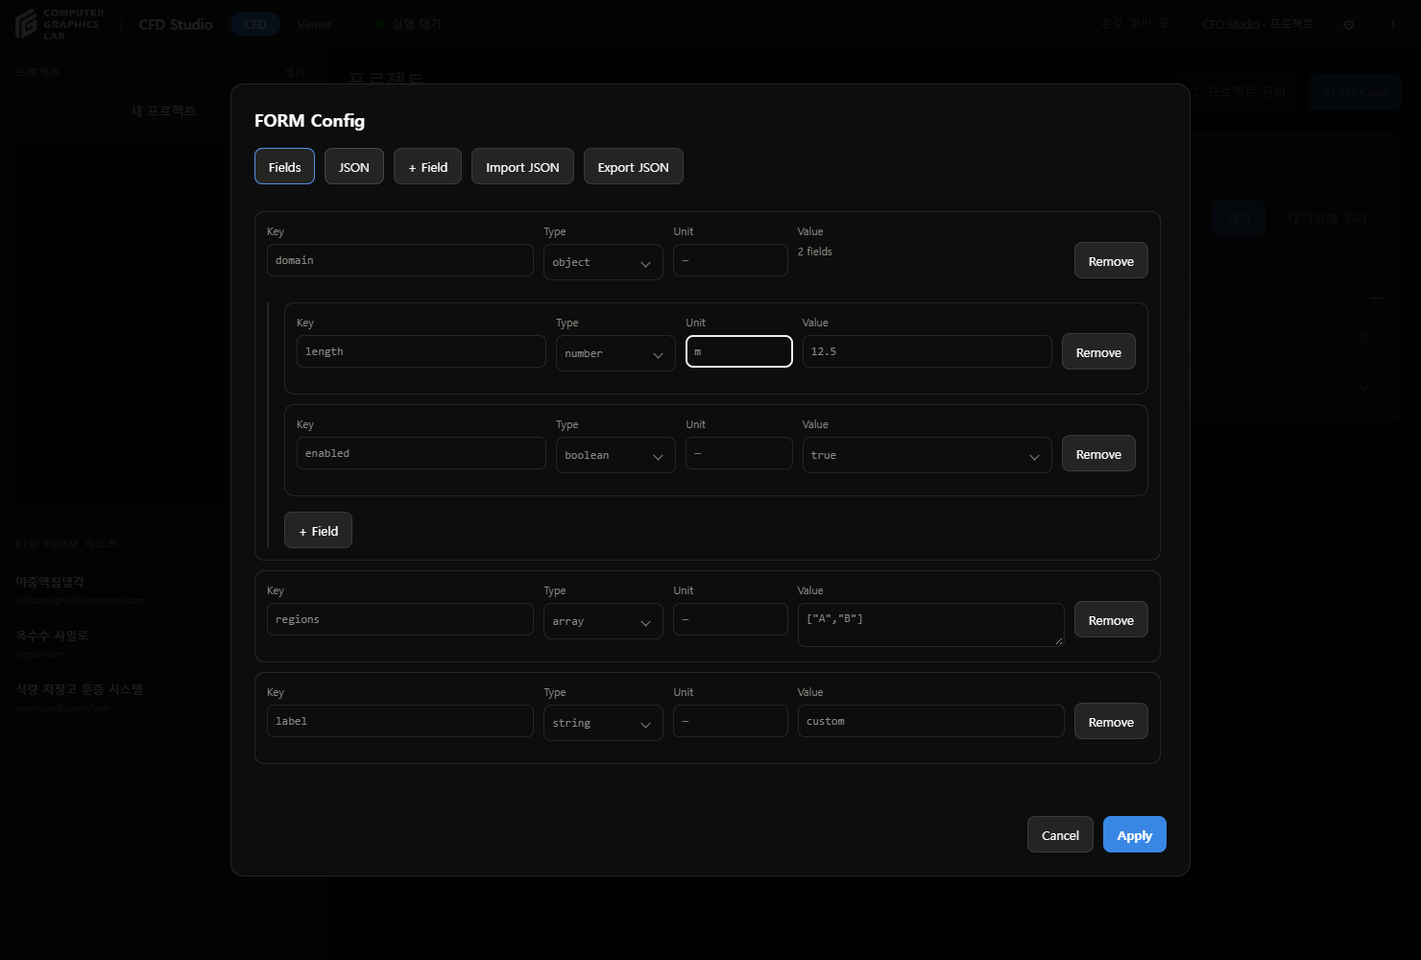
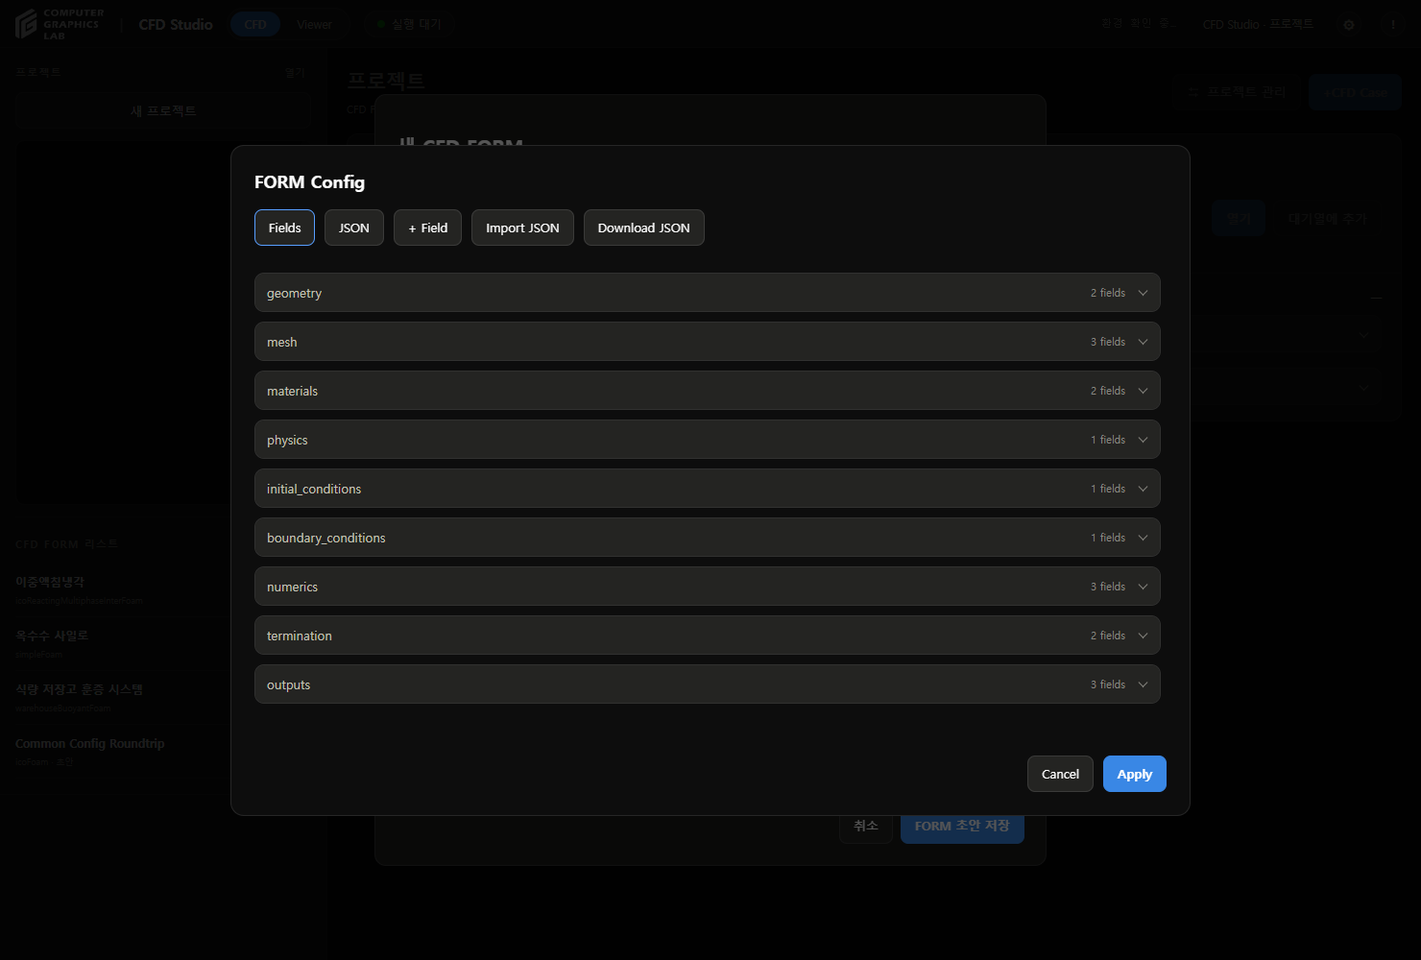
Provide common CFD Config structure and editable JSON template

diff --git a/cfd_studio/internal/form_config_editor.js b/cfd_studio/internal/form_config_editor.js
@@ -32,13 +32,13 @@
   }
   function newField(fields){let n=1;while(fields.some(f=>f.key==='field_'+n))n++;return {key:'field_'+n,type:'number',unit:'',value:0};}
   function open({config={},schema=null,onSave,title='Config'}){
-    let draft=schema?clone(schema):fromConfig(config),mode='fields';toConfig(draft);
+    let draft=schema?clone(schema):fromConfig(config),mode='fields';toConfig(draft);const expanded=new WeakSet();
     const el=(tag,text,cls)=>{const x=document.createElement(tag);if(text!=null)x.textContent=text;if(cls)x.className=cls;return x;};
     const button=(text,fn)=>{const x=el('button',text,'btn');x.type='button';x.onclick=fn;return x;};
     if(!document.getElementById('formConfigStyle')){const style=el('style');style.id='formConfigStyle';style.textContent=`
       .fc-dialog{width:min(1000px,94vw);max-width:1000px;max-height:90vh;padding:24px;border:1px solid var(--line);border-radius:14px;background:var(--card,var(--page));color:var(--text);box-sizing:border-box}.fc-dialog::backdrop{background:#000a}
       .fc-header,.fc-actions,.fc-toolbar{display:flex;align-items:center;justify-content:space-between;gap:10px}.fc-header h2{font-size:18px;margin:0}.fc-toolbar{justify-content:flex-start;flex-wrap:wrap;margin:18px 0}.fc-body{max-height:60vh;overflow:auto;padding-right:6px}.fc-empty{padding:40px;text-align:center;color:var(--muted);border:1px dashed var(--line);border-radius:10px}.fc-field{border:1px solid var(--line);border-radius:10px;padding:12px;margin:10px 0;background:var(--page)}
-      .fc-row{display:grid;grid-template-columns:minmax(120px,1.4fr) 125px minmax(70px,.6fr) minmax(120px,1.4fr) auto;gap:10px;align-items:start}.fc-field label{display:flex;flex-direction:column;gap:6px;font-size:11px;color:var(--muted)}.fc-field input,.fc-field select,.fc-field textarea,.fc-json{box-sizing:border-box;width:100%;background:var(--card,var(--page));color:var(--text);border:1px solid var(--line);border-radius:7px;padding:8px;font:12px Consolas,monospace;min-height:34px}.fc-field .btn{margin-top:19px}.fc-children{padding-left:16px;border-left:2px solid var(--line);margin-top:12px}.fc-children>.btn{margin-top:6px}.fc-json{min-height:360px;resize:vertical}.fc-error{color:var(--red,#ef8989);font-size:12px;min-height:18px;white-space:pre-wrap}.fc-actions{justify-content:flex-end;margin-top:14px}.fc-toolbar [aria-pressed=true]{border-color:var(--accent,#579eff)}
+      .fc-row{display:grid;grid-template-columns:minmax(120px,1.4fr) 125px minmax(70px,.6fr) minmax(120px,1.4fr) auto;gap:10px;align-items:start}.fc-field label{display:flex;flex-direction:column;gap:6px;font-size:11px;color:var(--muted)}.fc-field input,.fc-field select,.fc-field textarea,.fc-json{box-sizing:border-box;width:100%;background:var(--card,var(--page));color:var(--text);border:1px solid var(--line);border-radius:7px;padding:8px;font:12px Consolas,monospace;min-height:34px}.fc-field .btn{margin-top:19px}.fc-children{padding-left:16px;border-left:2px solid var(--line);margin-top:12px}.fc-children>.btn{margin-top:6px}.fc-group{border:1px solid var(--line);border-radius:10px;margin:10px 0;background:var(--page)}.fc-group>summary{display:flex;align-items:center;gap:12px;cursor:pointer;padding:14px;list-style:none;font-size:13px}.fc-group>summary::-webkit-details-marker{display:none}.fc-group>summary small{margin-left:auto;color:var(--muted);font-size:11px}.fc-group>summary::after{content:'⌄';font-size:18px;color:var(--muted);transition:transform .15s}.fc-group[open]>summary::after{transform:rotate(180deg)}.fc-group>.fc-field{border:0;margin:0;border-top:1px solid var(--line);border-radius:0 0 10px 10px}.fc-json{min-height:360px;resize:vertical}.fc-error{color:var(--red,#ef8989);font-size:12px;min-height:18px;white-space:pre-wrap}.fc-actions{justify-content:flex-end;margin-top:14px}.fc-toolbar [aria-pressed=true]{border-color:var(--accent,#579eff)}
       @media(max-width:700px){.fc-row{grid-template-columns:1fr 1fr}.fc-row>.btn{grid-column:2}.fc-children{padding-left:6px}}
     `;document.head.append(style);}
     const dialog=el('dialog',null,'fc-dialog'),header=el('div',null,'fc-header');header.append(el('h2',title));dialog.append(header);
@@ -49,12 +49,17 @@
     const add=button('+ Field',()=>guarded(()=>{commitJSON();draft.fields.push(newField(draft.fields));mode='fields';render();}));
     const upload=el('input');upload.type='file';upload.accept='.json,application/json';upload.hidden=true;
     upload.onchange=async()=>{const file=upload.files[0];if(!file)return;try{if(file.size>1000000)throw Error('JSON file must be under 1 MB');const next=fromConfig(JSON.parse(await file.text()),draft);draft=next;mode='fields';error.textContent='';render();}catch(e){error.textContent=e.message;}upload.value='';};
-    toolbar.append(fieldButton,jsonButton,add,button('Import JSON',()=>upload.click()),button('Export JSON',()=>guarded(()=>{commitJSON();const a=el('a');a.href=URL.createObjectURL(new Blob([JSON.stringify(toConfig(draft),null,2)],{type:'application/json'}));a.download='config.json';a.click();setTimeout(()=>URL.revokeObjectURL(a.href),1000);})),upload);dialog.append(toolbar,body,error,actions);
+    toolbar.append(fieldButton,jsonButton,add,button('Import JSON',()=>upload.click()),button('Download JSON',()=>guarded(()=>{commitJSON();const a=el('a');a.href=URL.createObjectURL(new Blob([JSON.stringify(toConfig(draft),null,2)],{type:'application/json'}));a.download='cfd-config.json';a.click();setTimeout(()=>URL.revokeObjectURL(a.href),1000);})),upload);dialog.append(toolbar,body,error,actions);
     function renderFields(fields,host,path=''){
       for(const [index,field] of fields.entries()){
-        const box=el('div',null,'fc-field'),row=el('div',null,'fc-row'),label=path+field.key;host.append(box);box.append(row);
+        const box=el('div',null,'fc-field'),row=el('div',null,'fc-row'),label=path+field.key;
+        let heading;
+        if(!path&&field.type==='object'){
+          const section=el('details',null,'fc-group'),summary=el('summary');heading=el('span',field.key);summary.append(heading,el('small',field.fields.length+' fields'));section.append(summary,box);section.open=expanded.has(field);section.ontoggle=()=>{if(section.open)expanded.add(field);else expanded.delete(field);};host.append(section);
+        }else host.append(box);
+        box.append(row);
         const input=(caption,node)=>{const l=el('label',caption);node.setAttribute('aria-label',label+' '+caption);l.append(node);row.append(l);return node;};
-        const key=input('Key',el('input'));key.value=field.key;key.maxLength=80;key.oninput=()=>field.key=key.value;
+        const key=input('Key',el('input'));key.value=field.key;key.maxLength=80;key.oninput=()=>{field.key=key.value;if(heading)heading.textContent=key.value;};
         const type=input('Type',el('select'));for(const t of types)type.append(new Option(t,t));type.value=field.type;
         const unit=input('Unit',el('input'));unit.value=field.unit||'';unit.maxLength=64;unit.placeholder='—';unit.oninput=()=>field.unit=unit.value;
         type.onchange=()=>{field.type=type.value;delete field.fields;delete field.value;if(field.type==='object')field.fields=[];else field.value={string:'',number:0,integer:0,boolean:false,array:[],null:null}[field.type];render();};

diff --git a/cfd_studio/internal/execution_workspace.js b/cfd_studio/internal/execution_workspace.js
@@ -154,7 +154,7 @@
   }
   async function formEditor(id=null){
     try{
-      const [reply,catalogReply]=await Promise.all([api('/forms'),api('/solvers')]);
+      const [reply,catalogReply,templateReply]=await Promise.all([api('/forms'),api('/solvers'),api('/config-template')]);
       const existing=reply.forms.find(f=>f.id===id),engines=reply.forms.filter(x=>['immersion','grain_silo','warehouse'].includes(x.id));
       let solvers=catalogReply.solvers,installation=catalogReply.installation;
       const d=node('dialog');d.className='ew-dialog ew-form-dialog';
@@ -190,7 +190,7 @@
       };
       const rememberConfig=()=>{if(activeConfigKey)configDrafts.set(activeConfigKey,{config:structuredClone(config),schema:structuredClone(configSchema),sections:{...sections}});};
       const setTemplates=(initial=false)=>{
-        f.elements.model.replaceChildren(new Option('Blank Config','solver_definition'));
+        f.elements.model.replaceChildren(new Option('General CFD Config','solver_definition'));
         for(const model of selectedSolver().models){const engine=engines.find(x=>x.model===model);f.elements.model.append(new Option(engine.name,model));}
         f.elements.model.value=initial&&existing?existing.model:'solver_definition';f.elements.model.disabled=!!existing;
       };
@@ -200,7 +200,7 @@
         if(initial&&existing){config=structuredClone(existing.config);configSchema=existing.config_schema?structuredClone(existing.config_schema):null;
           if(existing.definition_only&&!configSchema&&config._해석유형==='solver_definition')config=structuredClone(config.requirements||{});
         }else if(saved){config=structuredClone(saved.config);configSchema=structuredClone(saved.schema);sections={...saved.sections};}
-        else{config=structuredClone(isDraft()?{}:engines.find(x=>x.model===f.elements.model.value).config);configSchema=null;sections={};
+        else{config=structuredClone(isDraft()?templateReply.config:engines.find(x=>x.model===f.elements.model.value).config);configSchema=null;sections={};
           if(f.elements.model.value==='grain_silo'){const steady=solver.id==='simpleFoam';config.openfoam_mapping.solver=solver.id;config.openfoam_mapping.pressure_velocity_coupling=steady?'SIMPLE':'PIMPLE';config.run.time_basis=steady?'iterations':'physical_time';delete config._studio;}}
         if(f.elements.model.value==='immersion')config.run.output_fields??=['bubble','phase','flow','therm'];
         configSchema=CFDFormConfig.fromConfig(config,configSchema);drawSections();

diff --git a/tests/test_form_config_editor.js b/tests/test_form_config_editor.js
@@ -6,3 +6,5 @@ test('units and deliberate number type survive import and reopen',()=>{const s={
 test('duplicate and reserved keys fail instead of overwriting data',()=>{const s=fromConfig({length:1});s.fields.push({...s.fields[0],value:2});assert.throws(()=>toConfig(s),/Duplicate/);for(const key of ['__proto__','constructor','prototype'])assert.throws(()=>fromConfig(JSON.parse('{"'+key+'":1}')),/reserved/i);});
 test('invalid numeric and array values fail before apply',()=>{for(const [type,value] of [['integer',1.5],['number',null],['number',Infinity],['boolean',0],['array','[]']])assert.throws(()=>toConfig({version:1,fields:[{key:'x',type,unit:'',value}]}));});
 test('field addition is local and supports every JSON type',()=>{const fields=[newField([])];assert.equal(newField(fields).key,'field_2');const values={text:'abc',number:1.5,integer:1,flag:true,array:[],object:{},nil:null};assert.deepEqual(toConfig(fromConfig(values)),values);});
+
+test('general template preserves common sections and user JSON extensions',()=>{const config=require('../cfd_studio/templates/cfd-config-template.json');assert.deepEqual(Object.keys(config),['geometry','mesh','materials','physics','initial_conditions','boundary_conditions','numerics','termination','outputs']);const copy=structuredClone(config);copy.geometry.regions=[{name:'custom',parameters:{length:2}}];copy.outputs.fields=['U','p'];assert.deepEqual(toConfig(fromConfig(copy)),copy);assert.deepEqual(config.geometry.regions,[]);assert.equal(config.numerics.time_step,null);});

diff --git a/cfd_studio/app.py b/cfd_studio/app.py
@@ -14,7 +14,7 @@ from http.server import BaseHTTPRequestHandler, ThreadingHTTPServer
 from pathlib import Path
 from urllib.parse import urlparse, parse_qs, unquote
 
-APP_VER   = "v190"         # 화면 우상단·콘솔에 표시 — 업데이트 반영 확인용
+APP_VER   = "v191"         # 화면 우상단·콘솔에 표시 — 업데이트 반영 확인용
 PROCESS_STARTED = time.time()
 HERE      = os.path.dirname(os.path.abspath(__file__))
 # The bundled isolated Python also needs the application and repository modules.
@@ -5337,7 +5337,7 @@ INDEX_HTML = r'''<!DOCTYPE html>
    <h4 style="margin-top:0">CFD 실행</h4>
    <ul><li><b>새 프로젝트</b>: 이름·프로젝트 폴더·설명·CFD FORM·프리셋 선택</li><li><b>+CFD Case</b>: 개별 Config·종료 조건·목표 입력 → <b>실행 저장</b></li><li>실행 선택 → <b>대기열에 추가</b> → <b>대기열 시작</b></li><li>실행 목록: 설정 차이·종료 조건·실행 상태·마지막 저장·수치 검사·시각화 확인</li><li>결과 버튼: <b>생성 / 업데이트 / 열기</b></li></ul>
    <h4>CFD FORM</h4>
-   <ul><li>왼쪽 <b>CFD FORM 리스트</b>: 이중액침냉각·옥수수 사일로·식량 저장고 훈증 시스템</li><li><b>새로 만들기</b>: 범용 솔버 10개·기존 전용 솔버 선택, 기능·주요 결과·연결 양식 확인</li><li><b>설치 확인</b>: 실행 파일 확인과 Studio 연결 상태를 별도로 표시. <b>Blank Config → Config 편집</b>에서 Key·Type·Unit·Value 직접 입력. <b>+ Field</b>로 항목 추가, Object·Array·JSON 지원. <b>Apply → FORM 초안 저장</b>. 사용자 정의 Config는 실행 연결 전까지 프로젝트·Case 실행에 사용할 수 없음</li><li><b>Config Template</b>: 기존 연결 양식 필요 시 직접 선택. FORM 오른쪽 <b>수정</b>: 이름·입력 양식 변경, 연결된 FORM에서 <b>새 프리셋</b> 저장</li><li>프로젝트 생성 시 FORM 필수. 프리셋은 해당 FORM 안에서 별도 선택</li><li><b>프리셋에 저장</b>: 기본 해제, 체크하면 새 이름으로 별도 저장</li><li>프로젝트 기본 프리셋 변경: 이후 추가하는 실행에만 적용</li></ul>
+   <ul><li>왼쪽 <b>CFD FORM 리스트</b>: 이중액침냉각·옥수수 사일로·식량 저장고 훈증 시스템</li><li><b>새로 만들기</b>: 범용 솔버 10개·기존 전용 솔버 선택, 기능·주요 결과·연결 양식 확인</li><li><b>설치 확인</b>: 실행 파일 확인과 Studio 연결 상태를 별도로 표시. <b>General CFD Config → Config 편집</b>에서 Geometry·Mesh·Materials 등 공통 구조 제공. <b>Download JSON</b>으로 내려받아 세부 작성 후 <b>Import JSON</b>으로 적용. Key·Type·Unit·Value 직접 편집 가능. <b>+ Field</b>로 항목 추가, Object·Array·JSON 지원. <b>Apply → FORM 초안 저장</b>. 사용자 정의 Config는 실행 연결 전까지 프로젝트·Case 실행에 사용할 수 없음</li><li><b>Config Template</b>: 기존 연결 양식 필요 시 직접 선택. FORM 오른쪽 <b>수정</b>: 이름·입력 양식 변경, 연결된 FORM에서 <b>새 프리셋</b> 저장</li><li>프로젝트 생성 시 FORM 필수. 프리셋은 해당 FORM 안에서 별도 선택</li><li><b>프리셋에 저장</b>: 기본 해제, 체크하면 새 이름으로 별도 저장</li><li>프로젝트 기본 프리셋 변경: 이후 추가하는 실행에만 적용</li></ul>
    <h4>대기열</h4>
    <ul><li>시작 전 실행: 편집·순서 변경·제외 가능</li><li><b>다음 실행부터 일시정지</b>: 현재 실행 유지</li><li>실패: 대기열 정지 → <b>재시도 / 건너뛰기</b> → <b>대기열 시작</b></li><li>앱 재시작: 기록·결과·대기열 복원, 다음 실행은 일시정지 상태</li></ul>
    <h4>종료 조건</h4>

diff --git a/tests/test_form_schema.py b/tests/test_form_schema.py
@@ -1,4 +1,5 @@
 import copy
+import json
 import tempfile
 import unittest
 from pathlib import Path
@@ -27,6 +28,23 @@ class FormSchemaTests(unittest.TestCase):
             edited=copy.deepcopy(schema);edited['fields'][0]['fields'][0]['value']=15
             fresh.save_form('User domain','solver_definition','simpleFoam',config_from_schema(edited),saved['id'],1,config_schema=edited)
             self.assertEqual(saved['config']['domain']['length'],12.5)
+
+    def test_common_template_route_returns_editable_json_without_mutating_saved_form(self):
+        from cfd_studio.execution_workspace import get_route
+        class Handler:
+            path='/api/executions/config-template'
+            def _json(self,value,*args):self.value=value
+        handler=Handler()
+        self.assertTrue(get_route(handler,None))
+        config=handler.value['config']
+        self.assertEqual(config,json.loads((ROOT/'cfd_studio/templates/cfd-config-template.json').read_text()))
+        self.assertEqual(len(config),9)
+        self.assertIsNone(config['numerics']['time_step'])
+        self.assertEqual(config['geometry']['regions'],[])
+        # Loading the starter file is read-only and returns independent data.
+        config['geometry']['regions'].append({'name':'user_region'})
+        second=Handler();get_route(second,None)
+        self.assertEqual(second.value['config']['geometry']['regions'],[])
 
     def test_blank_definition_does_not_inject_geometry(self):
         self.assertEqual(config_from_schema({'version':1,'fields':[]}),{})

diff --git a/cfd_studio/internal/execution_workspace.py b/cfd_studio/internal/execution_workspace.py
@@ -471,6 +471,8 @@ def get_route(handler, workspace):
             result = workspace.series.page(q.get('id', [''])[0], q.get('metric', [''])[0], int(q.get('offset', ['0'])[0]), int(q.get('limit', ['16'])[0]))
         elif url.path == '/api/executions/forms':
             result = {'forms': workspace.forms()}
+        elif url.path == '/api/executions/config-template':
+            result = {'config': json.loads((Path(__file__).resolve().parents[1]/'templates/cfd-config-template.json').read_text(encoding='utf-8'))}
         elif url.path == '/api/executions/solvers':
             result = workspace.solver_catalog()
         elif url.path == '/api/executions/presets':

diff --git a/docs/generic-config-20260929.md b/docs/generic-config-20260929.md
@@ -4,12 +4,37 @@
 
 1. **CFD FORM 리스트 → 새로 만들기**
 2. FORM 이름과 솔버 선택
-3. **Blank Config → Config 편집**
-4. **+ Field**로 항목 추가
-5. **Key · Type · Unit · Value** 입력
-6. **Apply → FORM 초안 저장**
+3. **General CFD Config → Config 편집**
+4. 공통 파트를 펼쳐 기본 항목 확인
+5. **Download JSON**으로 파일 저장
+6. JSON 파일에 세부 항목 작성 후 **Import JSON**
+7. **Apply → FORM 초안 저장**
+
+- 화면의 Fields·JSON 편집도 지원
+- [기본 JSON 파일](../cfd_studio/templates/cfd-config-template.json)
 
 ![Config 편집](assets/generic-config-20260929/editor.png)
+
+## 기본 구조
+
+| 파트 | 입력 내용 |
+|---|---|
+| geometry | 형상 원본, 해석 영역 |
+| mesh | 격자 원본, 생성 도구, 격자 제어 |
+| materials | 물성 정의, 영역별 재료 배정 |
+| physics | 사용할 물리 모델 |
+| initial_conditions | 초기장 |
+| boundary_conditions | 경계별 조건 |
+| numerics | 수치 기법, 선형 솔버, 계산 시간간격 |
+| termination | 종료 방식, 기준 |
+| outputs | 저장할 장, 결과 저장 간격, 조회 지점 |
+
+- `null`: 미입력. 0이나 기본 물성으로 간주하지 않음
+- `{}`·`[]`: 세부 항목을 채울 자리
+- 특정 대상·치수·물성·모델·시간간격 자동 지정 없음
+- 이름·하위 구조·추가 항목 자유 편집
+- 새 FORM에만 기본 구조 제공. 기존 FORM 자동 재구성 없음
+- 경로와 모델명은 정의 데이터. JSON을 저장해도 형상 가져오기나 솔버 입력 파일 생성이 자동 실행되지 않음
 
 ## 기능
 
@@ -19,7 +44,7 @@
 - Array: JSON 배열 직접 입력
 - Unit: 사용자 지정 단위 보존. 수치 변환 기능 없음
 - JSON: 전체 값 구조 편집
-- Import JSON / Export JSON: 값만 가져오기·내보내기. 단위·자료형 스키마는 FORM 저장에 포함
+- Import JSON / Download JSON: 값만 가져오기·내보내기. 단위·자료형 스키마는 FORM 저장에 포함
 - Cancel: 편집 취소
 - 중복 Key·자료형 불일치·잘못된 JSON: 저장 차단
 - 기존 양식: Config Template에서 명시적으로 선택
@@ -36,22 +61,22 @@
 
 ## 확인
 
-- 실제 브라우저: 빈 Config, 항목 추가, JSON 편집, 중첩 구조, 단위 입력
-- 저장·새로고침 후 값 12.5와 단위 m 복원 확인
-- JSON 버튼 재선택 시 미저장 입력 유지 확인
-- 솔버·템플릿 전환 후 자유 Config 입력 유지 확인
+- Python 관련 검사 19개 통과
+- JavaScript Config 검사 7개 통과
+- 실제 화면: 공통 파트 9개, JSON 다운로드 확인
+- 내려받은 JSON과 제공 템플릿 값 일치 확인
+- 파일 수정·Import JSON·FORM 저장·새로고침 후 동일 값 복원 확인
 - 임시 저장소에서 UI 확인. CFD 계산 미실행
-- Python 전체 검사: 186개 실행, 184개 통과·2개 제외. 보류 중인 격자 관련 로컬 검사 포함
-- JavaScript: 67개 통과
-- 적용 버전: v190
-- 앱 재시작 후 프로젝트 2개·실행 28개·대기열 상태 일치 확인
+- 적용 버전: v191
+- 재시작 후 기존 프로젝트 2개·실행 28개·대기열 상태 일치 확인
 
 ## 변경 파일
 
-- `cfd_studio/internal/form_config_editor.js`: 범용 Config 편집기
+- `cfd_studio/templates/cfd-config-template.json`: 공통 양식 파일
+- `cfd_studio/internal/form_config_editor.js`: 파트별 펼치기·JSON 다운로드
 - `cfd_studio/internal/form_schema.py`: 스키마·값 검사
 - `cfd_studio/internal/cfd_forms.py`: FORM 스키마 저장
-- `cfd_studio/internal/execution_workspace.js`: 빈 Config·선택 템플릿 연결
+- `cfd_studio/internal/execution_workspace.js`: 공통 Config·선택 템플릿 연결
 - `cfd_studio/internal/execution_workspace.py`: Config 스키마 API 전달
 - `cfd_studio/app.py`: 편집기 로딩·도움말
 - `tests/test_form_config_editor.js`, `tests/test_form_schema.py`: 데이터 검사·복원 검사

diff --git a/docs/CFD-STUDIO-USER-GUIDE.md b/docs/CFD-STUDIO-USER-GUIDE.md
@@ -42,9 +42,12 @@
 ## CFD FORM
 
 - 왼쪽 **CFD FORM 리스트**: 이중액침냉각 / 옥수수 사일로 / 식량 저장고 훈증 시스템
-- **새로 만들기**: FORM 이름 → 솔버 선택 → **Blank Config → Config 편집**
+- **새로 만들기**: FORM 이름 → 솔버 선택 → **General CFD Config → Config 편집**
+- Geometry·Mesh·Materials 등 공통 파트 제공. 각 파트를 펼쳐 편집
+- **Download JSON → 파일 수정 → Import JSON**: 세부 Config 작성
+- [기본 JSON 파일](../cfd_studio/templates/cfd-config-template.json)
 - **+ Field**: Key·Type·Unit·Value 직접 입력. Object 안에 하위 항목 추가 가능
-- **JSON / Import JSON / Export JSON**: 값 구조 직접 편집·가져오기·내보내기
+- **JSON / Import JSON / Download JSON**: 값 구조 직접 편집·가져오기·내보내기
 - **Apply → FORM 초안 저장**: Config와 항목별 Type·Unit 보존
 - 기존 양식 필요 시 **Config Template**에서 직접 선택 → **FORM 저장**
 - 사용자 정의 Config: 대상·형상·필드 이름 자동 지정 없음. 실제 계산에는 솔버 입력·결과 연결 구현 필요
@@ -245,7 +248,7 @@
 - 솔버 선택 시 해석 기능·주요 결과·연결 양식 표시
 - **설치 확인**: 실행 파일 확인. Studio 연결 상태는 별도 표시
 - 연결된 양식: **Config 편집 → FORM 저장**
-- 사용자 정의: **Blank Config → Config 편집 → FORM 초안 저장**. 실행 연결 후 프로젝트에 적용 가능
+- 사용자 정의: **General CFD Config → Config 편집 → FORM 초안 저장**. 실행 연결 후 프로젝트에 적용 가능
 - [솔버별 설명과 화면](solver-catalog-20260929.md)
 
 ## 문제 해결

diff --git a/docs/solver-catalog-20260929.md b/docs/solver-catalog-20260929.md
@@ -6,7 +6,7 @@
 2. FORM 이름 입력 후 **솔버** 선택.
 3. 해석 기능·정상/비정상·주요 결과·연결 양식 확인.
 4. **설치 확인**으로 설정된 CPU OpenFOAM 환경의 실행 파일 확인.
-5. 기본값 **Blank Config**에서 **Config 편집**으로 Key·Type·Unit·Value 입력.
+5. 기본값 **General CFD Config**에서 **Config 편집**으로 Key·Type·Unit·Value 입력.
 6. **Apply → FORM 초안 저장**. 기존 연결 양식은 **Config Template**에서 선택 후 **FORM 저장**.
 
 - 기존 FORM은 이름·설명·입력 양식 편집 가능. 사용 중인 솔버는 변경 불가.

diff --git a/docs/CFD-STUDIO-MANUAL.md b/docs/CFD-STUDIO-MANUAL.md
@@ -270,7 +270,7 @@
 
 ## 사용자 정의 Config
 
-- 새 FORM: 특정 형상 없이 빈 Config로 시작
+- 새 FORM: Geometry·Mesh·Materials 등 공통 구조로 시작
 - 항목: Key·Type·Unit·Value, 중첩 Object·Array 지원
 - 필드 이름: 사용자 입력 그대로 보존. 한글 이름 자동 변환 없음
 - Type·Unit: FORM 스키마로 저장. Unit은 자동 단위 변환 기능이 아닌 메타데이터
